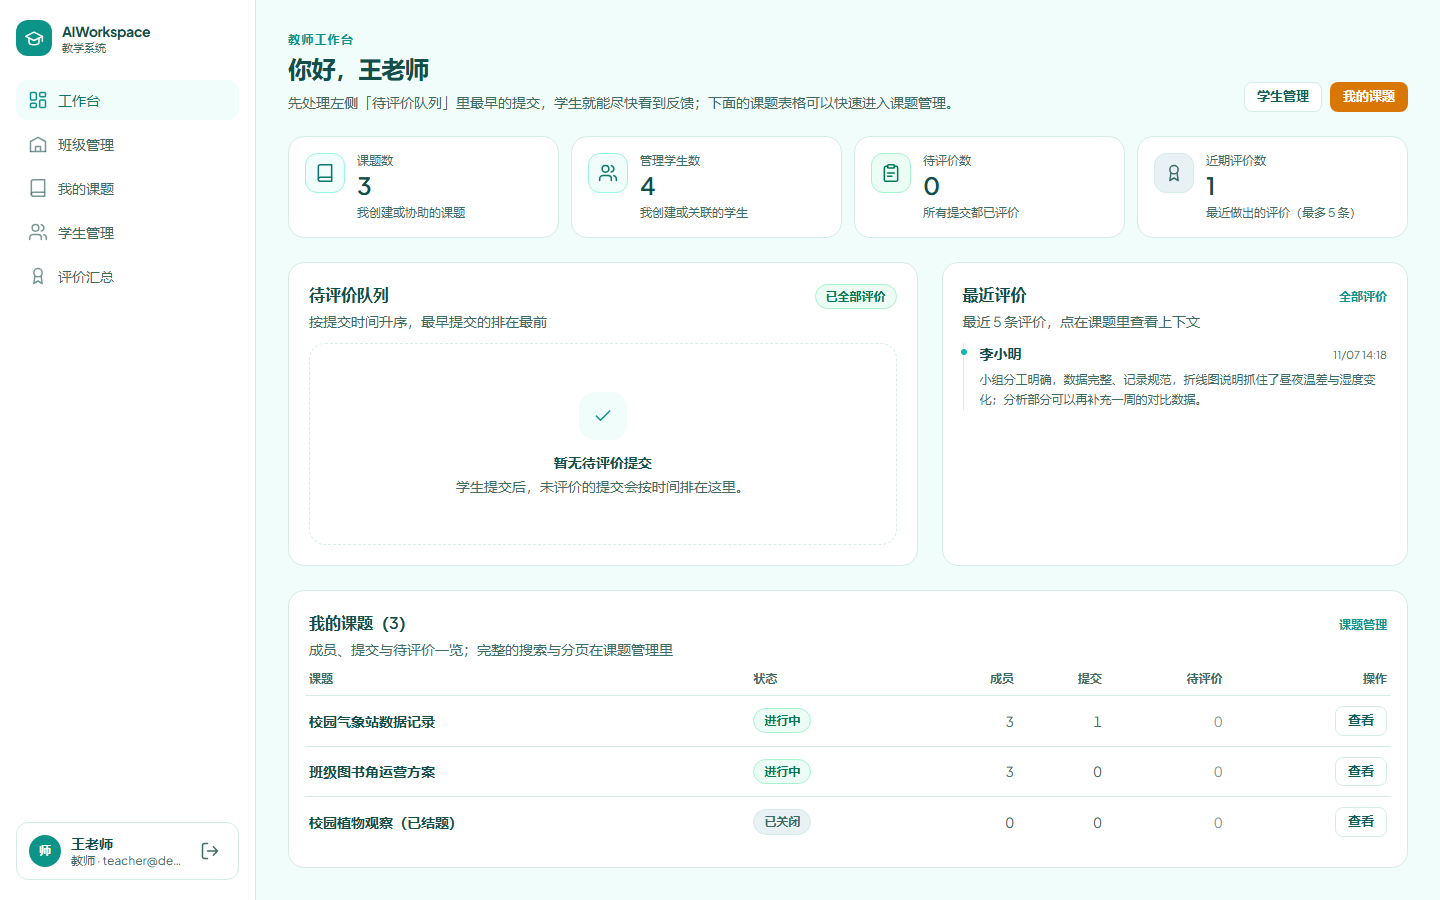
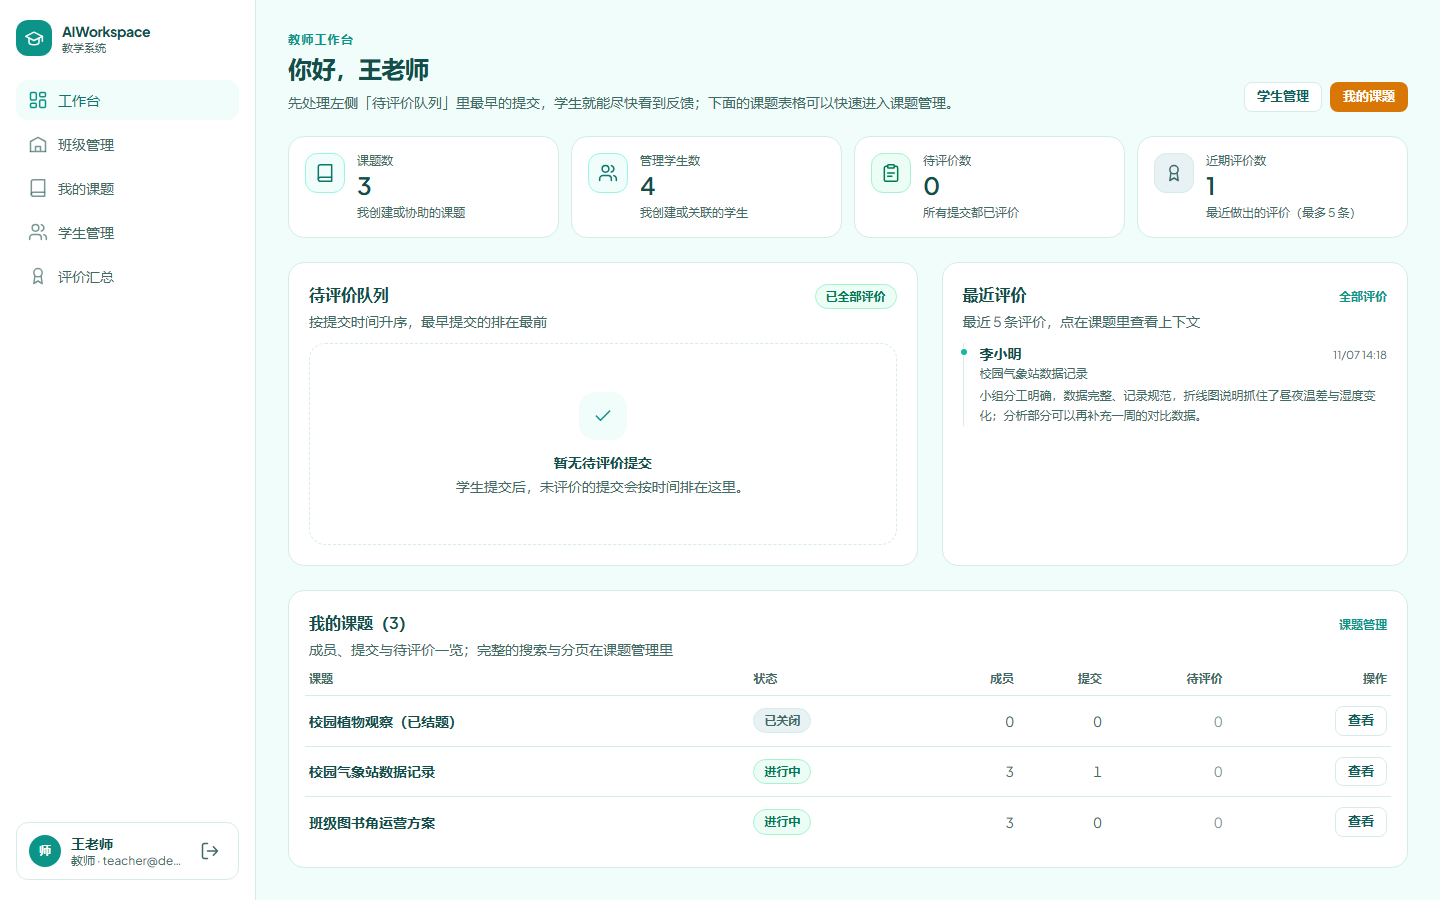
fix(ui): 侧栏固定（主区独立滚动）+ 评价汇总/最近评价显示课题名（兼容 topic.name）
- AppShell：桌面布局改为 h-dvh + overflow-hidden，main 独立滚动，侧栏不再跟随滚动
- 评价相关接口 topic 为 {id,name}（IDName），前端 EvaluationListItem/MyEvaluationItem 兼容 name/title，评价汇总与最近评价正常显示课题
- 截图脚本新增滚动截图用于验证侧栏固定

diff --git a/web/src/components/shell/AppShell.tsx b/web/src/components/shell/AppShell.tsx
@@ -133,9 +133,9 @@ export function AppShell({ user, children }: { user: User; children: ReactNode }
   };
 
   return (
-    <div className="min-h-dvh lg:grid lg:grid-cols-[256px_1fr]">
+    <div className="min-h-dvh lg:grid lg:h-dvh lg:grid-cols-[256px_1fr] lg:overflow-hidden">
       {/* 桌面侧栏 */}
-      <aside className="hidden border-r border-line bg-white lg:flex lg:h-dvh lg:flex-col lg:gap-6 lg:px-4 lg:py-5">
+      <aside className="hidden border-r border-line bg-white lg:flex lg:h-full lg:flex-col lg:gap-6 lg:px-4 lg:py-5">
         <BrandMark href={roleHome(user.role)} />
         <div className="flex-1 overflow-y-auto aw-scroll">
           <NavList items={items} pathname={pathname} />
@@ -187,7 +187,7 @@ export function AppShell({ user, children }: { user: User; children: ReactNode }
         </div>
       ) : null}
 
-      <main className="mx-auto w-full min-w-0 max-w-[1440px] px-4 py-6 sm:px-6 lg:px-8 lg:py-8">
+      <main className="mx-auto w-full min-w-0 max-w-[1440px] px-4 py-6 sm:px-6 lg:h-dvh lg:overflow-y-auto lg:px-8 lg:py-8">
         {children}
       </main>
     </div>

diff --git a/server/webdist/index.html b/server/webdist/index.html
@@ -2,9 +2,14 @@
 <html lang="zh-CN">
   <head>
     <meta charset="UTF-8" />
-    <title>AIWorkspace · 前端构建产物占位</title>
+    <link rel="icon" type="image/svg+xml" href="/favicon.svg" />
+    <meta name="viewport" content="width=device-width, initial-scale=1.0" />
+    <meta name="theme-color" content="#0d9488" />
+    <title>AIWorkspace 教学系统</title>
+    <script type="module" crossorigin src="/assets/index-BxZZg2bE.js"></script>
+    <link rel="stylesheet" crossorigin href="/assets/index-Dx3OoNE8.css">
   </head>
   <body>
-    <p>前端构建产物占位：运行 <code>cd web &amp;&amp; npm run build</code> 后把 <code>web/dist</code> 内容复制到 <code>server/webdist/</code> 再构建 Go 二进制；Docker 构建会自动完成。</p>
+    <div id="root"></div>
   </body>
 </html>

diff --git a/web/src/pages/teacher/Dashboard.tsx b/web/src/pages/teacher/Dashboard.tsx
@@ -245,7 +245,9 @@ export default function TeacherDashboard() {
                           {formatDateTime(evaluation.createdAt)}
                         </span>
                       </div>
-                      <p className="mt-0.5 truncate text-xs text-ink-soft">{evaluation.topic.title}</p>
+                      <p className="mt-0.5 truncate text-xs text-ink-soft">
+                        {evaluation.topic.name ?? evaluation.topic.title ?? "课题"}
+                      </p>
                       {evaluation.comment.trim() ? (
                         <p className="mt-1 line-clamp-2 whitespace-pre-line text-xs leading-5 text-ink-soft">
                           {evaluation.comment}

diff --git a/web/src/pages/teacher/Evaluations.tsx b/web/src/pages/teacher/Evaluations.tsx
@@ -89,7 +89,7 @@ export default function TeacherEvaluations() {
                         to={`/teacher/topics/${evaluation.topic.id}`}
                         className="text-sm font-semibold text-brand-900 hover:text-brand-700"
                       >
-                        {evaluation.topic.title}
+                        {evaluation.topic.name ?? evaluation.topic.title ?? "课题"}
                       </Link>
                       <p className="mt-1 text-xs text-ink-soft">
                         学生 {evaluation.student.name} · 评价人 {evaluation.teacher?.name ?? "教师"}

diff --git a/web/src/lib/types.ts b/web/src/lib/types.ts
@@ -156,7 +156,7 @@ export interface EvaluationListItem {
   comment: string;
   teacher: { id: string; name: string };
   student: { id: string; name: string };
-  topic: { id: string; title: string };
+  topic: { id: string; name?: string; title?: string };
   submissionId: string;
   scores: EvaluationScore[];
 }
@@ -183,7 +183,7 @@ export interface MyEvaluationItem {
   id: string;
   createdAt: string;
   comment: string;
-  topic: { id: string; title: string };
+  topic: { id: string; name?: string; title?: string };
   scores: EvaluationScore[];
 }
 

diff --git a/web/src/components/student/EvaluationList.tsx b/web/src/components/student/EvaluationList.tsx
@@ -22,7 +22,7 @@ export function EvaluationList({
                 to={`/student/topics/${item.topic.id}`}
                 className="text-sm font-semibold text-brand-900 transition-colors hover:text-brand-700"
               >
-                {item.topic.title}
+                {item.topic.name ?? item.topic.title ?? "课题"}
               </Link>
               <span className="text-xs text-ink-soft">{formatDateTime(item.createdAt)}</span>
             </div>
